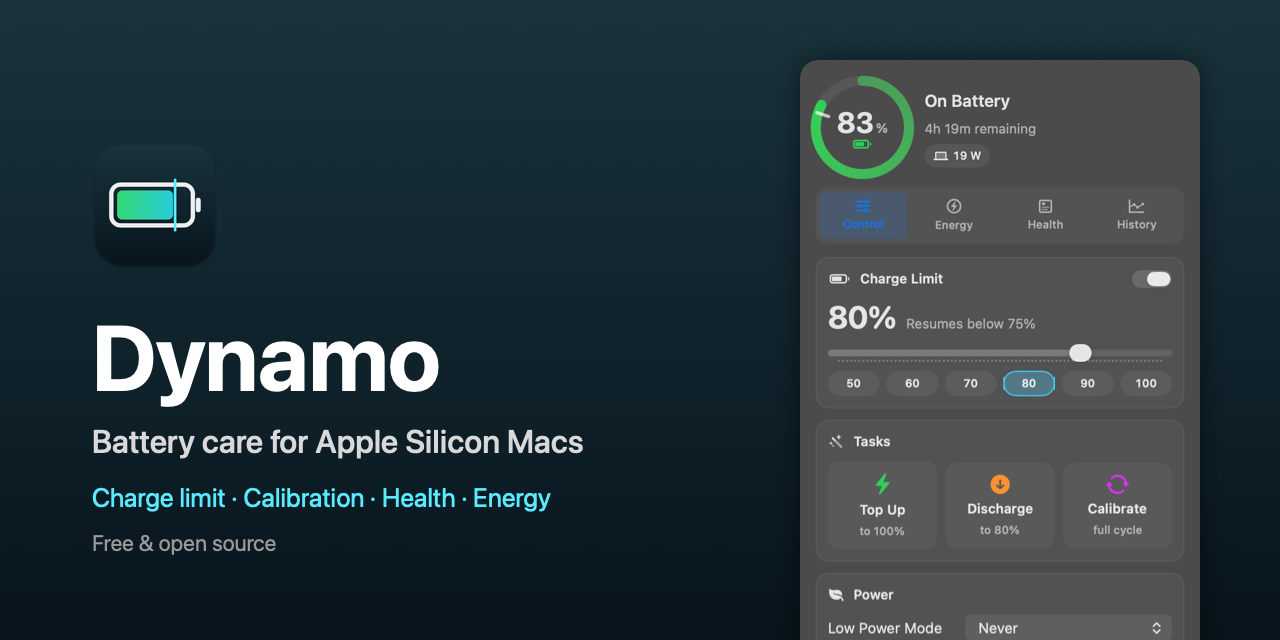
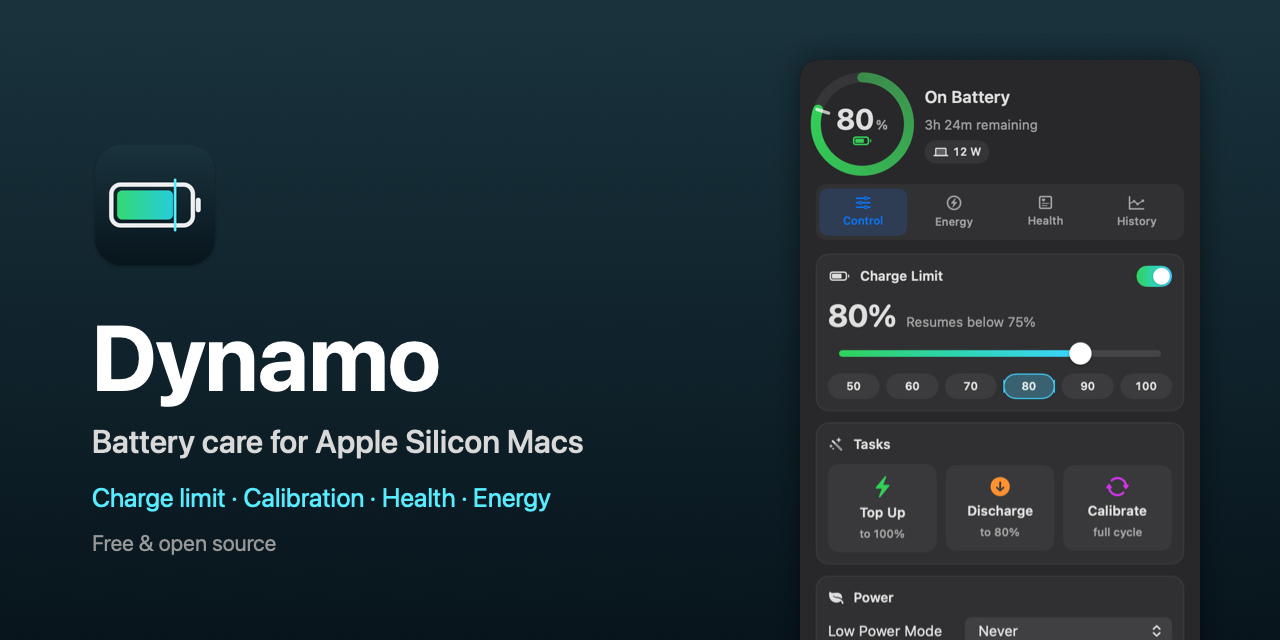
Crisper screenshots; own switch and slider in the app's colors
System switches and sliders turn grey whenever the popover isn't the
focused window (and in offscreen renders). Replace them with PillSwitch
and LimitSlider, and render README images on an opaque background.

Changed region(s): [[0.625, 0.0938, 0.9375, 1.0]]

diff --git a/Sources/App/Views.swift b/Sources/App/Views.swift
@@ -284,7 +284,7 @@ struct SettingToggle: View {
         HStack {
             SettingLabel(title: title, detail: detail)
             Spacer(minLength: 8)
-            Toggle("", isOn: $isOn).toggleStyle(.switch).controlSize(.mini).labelsHidden()
+            PillSwitch(isOn: $isOn)
         }
     }
 }
@@ -298,6 +298,80 @@ struct SettingLabel: View {
             Text(title)
             if let detail { Text(detail).font(.caption).foregroundStyle(.secondary) }
         }
+    }
+}
+
+/// The app's own switch, in its accent color. (System switches turn grey whenever
+/// the popover isn't the focused window.)
+struct PillSwitch: View {
+    @Binding var isOn: Bool
+    @Environment(\.isEnabled) private var isEnabled
+
+    var body: some View {
+        Capsule()
+            .fill(isOn ? AnyShapeStyle(LinearGradient(colors: [.green, .cyan], startPoint: .leading, endPoint: .trailing))
+                       : AnyShapeStyle(Color.primary.opacity(0.16)))
+            .frame(width: 32, height: 19)
+            .overlay(alignment: isOn ? .trailing : .leading) {
+                Circle().fill(.white).shadow(color: .black.opacity(0.25), radius: 1, y: 0.5).padding(2)
+            }
+            .opacity(isEnabled ? 1 : 0.5)
+            .animation(.easeInOut(duration: 0.15), value: isOn)
+            .contentShape(Capsule())
+            .onTapGesture { if isEnabled { isOn.toggle() } }
+            .accessibilityElement()
+            .accessibilityAddTraits(.isButton)
+            .accessibilityValue(isOn ? "On" : "Off")
+            .accessibilityAction { if isEnabled { isOn.toggle() } }
+    }
+}
+
+/// Charge-limit slider (20–100%) with a green→cyan fill like the header ring.
+struct LimitSlider: View {
+    var value: Double
+    var onChange: (Double) -> Void
+    var onCommit: (Double) -> Void
+    @Environment(\.isEnabled) private var isEnabled
+
+    private let knob: CGFloat = 20
+    private let range = 20.0...100.0
+
+    var body: some View {
+        GeometryReader { geo in
+            let track = max(1, geo.size.width - knob)
+            let x = CGFloat((value - range.lowerBound) / (range.upperBound - range.lowerBound)) * track
+            ZStack(alignment: .leading) {
+                Capsule().fill(Color.primary.opacity(0.12))
+                    .frame(width: track, height: 6)
+                    .offset(x: knob / 2)
+                Capsule().fill(LinearGradient(colors: [.green, .cyan], startPoint: .leading, endPoint: .trailing))
+                    .frame(width: max(6, x), height: 6)
+                    .offset(x: knob / 2)
+                Circle().fill(.white)
+                    .shadow(color: .black.opacity(0.3), radius: 1.5, y: 1)
+                    .frame(width: knob, height: knob)
+                    .offset(x: x)
+            }
+            .frame(height: knob)
+            .contentShape(Rectangle())
+            .gesture(DragGesture(minimumDistance: 0)
+                .onChanged { g in onChange(snap(g.location.x, track)) }
+                .onEnded { g in onCommit(snap(g.location.x, track)) })
+        }
+        .frame(height: knob)
+        .opacity(isEnabled ? 1 : 0.5)
+        .accessibilityElement()
+        .accessibilityLabel("Charge limit")
+        .accessibilityValue("\(Int(value)) percent")
+        .accessibilityAdjustableAction { dir in
+            let step = dir == .increment ? 5.0 : -5.0
+            onCommit(min(range.upperBound, max(range.lowerBound, value + step)))
+        }
+    }
+
+    private func snap(_ x: CGFloat, _ track: CGFloat) -> Double {
+        let f = Double(min(max(0, (x - knob / 2) / track), 1))
+        return (range.lowerBound + f * (range.upperBound - range.lowerBound)).rounded()
     }
 }
 
@@ -333,7 +407,7 @@ struct LimitCard: View {
         let shown = Int(model.draftLimit ?? Double(cfg.limit))
         let enabled = Binding(get: { model.config.enabled }, set: { v in model.update { $0.enabled = v } })
         Card(title: "Charge Limit", icon: "battery.75percent") {
-            Toggle("", isOn: enabled).toggleStyle(.switch).controlSize(.mini).labelsHidden()
+            PillSwitch(isOn: enabled)
         } content: {
             VStack(alignment: .leading, spacing: 8) {
                 HStack(alignment: .firstTextBaseline, spacing: 8) {
@@ -341,15 +415,12 @@ struct LimitCard: View {
                     Text(shown >= 100 ? "Charges fully" : "Resumes below \(shown - cfg.sailing)%")
                         .font(.callout).foregroundStyle(.secondary)
                 }
-                Slider(value: Binding(get: { model.draftLimit ?? Double(model.config.limit) },
-                                      set: { model.draftLimit = $0 }),
-                       in: 20...100, step: 1) { editing in
-                    if !editing, let d = model.draftLimit {
-                        model.update { $0.limit = Int(d) }
-                        model.draftLimit = nil
-                    }
+                LimitSlider(value: model.draftLimit ?? Double(cfg.limit)) { v in
+                    model.draftLimit = v
+                } onCommit: { v in
+                    model.update { $0.limit = Int(v) }
+                    model.draftLimit = nil
                 }
-                .tint(.cyan)
                 HStack(spacing: 6) {
                     ForEach([50, 60, 70, 80, 90, 100], id: \.self) { v in
                         Button("\(v)") { model.update { $0.limit = v } }

diff --git a/Tools/Snapshot/main.swift b/Tools/Snapshot/main.swift
@@ -7,7 +7,20 @@ let out = CommandLine.arguments.dropFirst().first ?? "build/snapshots"
 try? FileManager.default.createDirectory(atPath: out, withIntermediateDirectories: true)
 
 let app = NSApplication.shared
-app.setActivationPolicy(.prohibited)
+// Controls only draw in their active (colored) state in the key window of the
+// active app, so the tool briefly becomes a background app and takes focus.
+app.setActivationPolicy(.accessory)
+
+final class KeyWindow: NSWindow {
+    override var canBecomeKey: Bool { true }
+    override var canBecomeMain: Bool { true }
+}
+
+/// Opaque stand-ins for the popover's material, which renders as flat grey offscreen.
+func background(_ appearance: NSAppearance.Name) -> NSColor {
+    appearance == .darkAqua ? NSColor(srgbRed: 0.155, green: 0.155, blue: 0.165, alpha: 1)
+                            : NSColor(srgbRed: 0.965, green: 0.965, blue: 0.97, alpha: 1)
+}
 
 MainActor.assumeIsolated {
     let model = Model()
@@ -41,28 +54,35 @@ MainActor.assumeIsolated {
                                     reason: decide(model.config, b, PolicyState()).reason)
     }
 
+    NSApp.activate(ignoringOtherApps: true)
     for (name, appearance) in [("light", NSAppearance.Name.aqua), ("dark", .darkAqua)] {
         for (tab, tabName) in [(0, "control"), (3, "energy"), (1, "health"), (2, "history")] {
             model.tab = tab
-            let host = NSHostingView(rootView: PanelView().environmentObject(model))
+            let host = NSHostingView(rootView: PanelView().environmentObject(model)
+                .environment(\.controlActiveState, .key))
             host.appearance = NSAppearance(named: appearance)
             let size = host.fittingSize
-            let window = NSWindow(contentRect: NSRect(origin: .zero, size: size), styleMask: [.borderless],
-                                  backing: .buffered, defer: false)
+            // Far off-screen, but ordered in and key so controls render as active.
+            let window = KeyWindow(contentRect: NSRect(origin: NSPoint(x: -20000, y: -20000), size: size),
+                                   styleMask: [.borderless], backing: .buffered, defer: false)
             window.appearance = NSAppearance(named: appearance)
-            let bg = NSVisualEffectView(frame: NSRect(origin: .zero, size: size))
-            bg.material = .popover
-            bg.state = .active
+            let bg = NSView(frame: NSRect(origin: .zero, size: size))
+            bg.wantsLayer = true
+            bg.appearance = NSAppearance(named: appearance)
+            bg.layer?.backgroundColor = background(appearance).cgColor
             host.frame = bg.bounds
             bg.addSubview(host)
             window.contentView = bg
+            window.orderFrontRegardless()
+            window.makeKey()
             window.layoutIfNeeded()
-            RunLoop.main.run(until: Date().addingTimeInterval(0.4))
+            RunLoop.main.run(until: Date().addingTimeInterval(0.5))
             guard let rep = bg.bitmapImageRepForCachingDisplay(in: bg.bounds) else { continue }
             bg.cacheDisplay(in: bg.bounds, to: rep)
             let path = "\(out)/\(tabName)-\(name).png"
             try? rep.representation(using: .png, properties: [:])?.write(to: URL(fileURLWithPath: path))
             print(path, Int(size.width), "x", Int(size.height))
+            window.orderOut(nil)
         }
     }
     // Menu bar icon variants.
